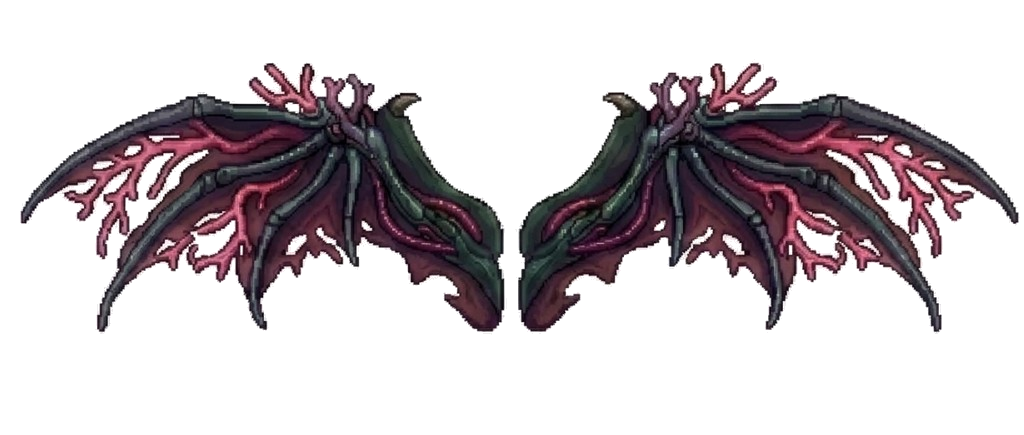
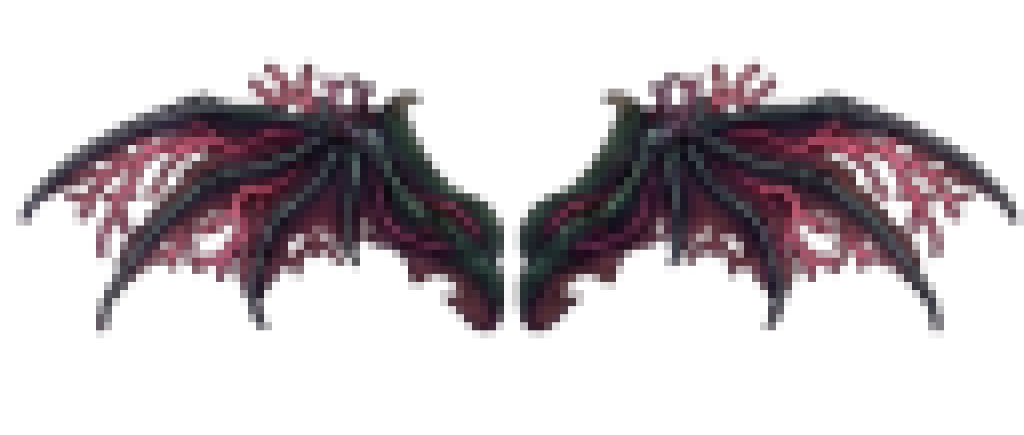
tried fixing art for boss scene

Changed region(s): [[0.0, 0.1195, 1.0, 0.777]]

diff --git a/pocket_world/constants.py b/pocket_world/constants.py
@@ -135,15 +135,15 @@ MINION_CONFIGS = (
 # Sprite layout for dark world: (bank, x, y, w, h)
 # Only left-facing minions stored; right-facing uses horizontal flip
 DARK_SPRITE_MAP = {
-    "squid": (1, 0, 128, 64, 64),
-    "squid_small": (1, 64, 128, 64, 64),
-    "scorpion": (1, 0, 192, 64, 64),
-    "golem": (1, 64, 192, 64, 64),
-    "head": (1, 128, 0, 128, 128),
-    "wings": (2, 0, 128, 256, 128),
-    "arms": (1, 160, 128, 96, 128),
-    "projectile_1": (1, 128, 192, 32, 32),
-    "projectile_2": (1, 128, 224, 32, 32),
+    "squid": (2, 0, 128, 64, 64),
+    "squid_small": (2, 64, 128, 64, 64),
+    "scorpion": (2, 0, 192, 64, 64),
+    "golem": (2, 64, 192, 64, 64),
+    "head": (2, 128, 0, 128, 128),
+    "wings": (2, 0, 64, 128, 64),
+    "arms": (2, 160, 128, 96, 128),
+    "projectile_1": (2, 128, 192, 32, 32),
+    "projectile_2": (2, 128, 224, 32, 32),
 }
 
 DIR_NAME = {

diff --git a/sounds_overview.md b/sounds_overview.md
@@ -10,6 +10,11 @@
 17 - steps in water
 18 - jump
 19 - land
+### Death Sounds
+23 - Drowning
+24 - Hydration
+25 - Starvation
+26 - Killed by Enemy
 ### Interactions
 31 - eating
 
